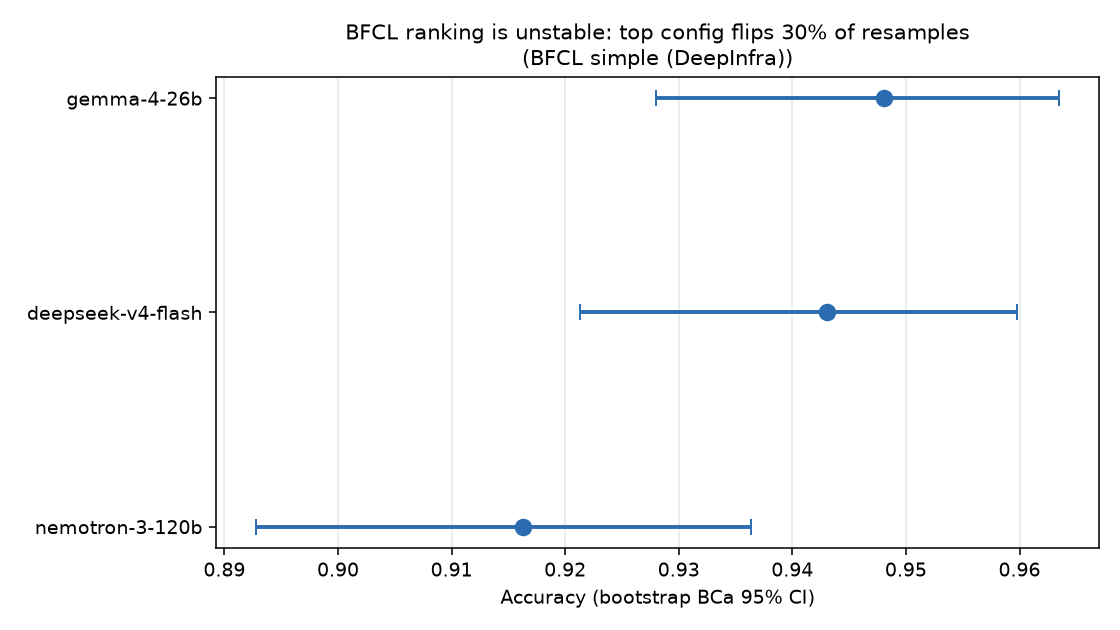
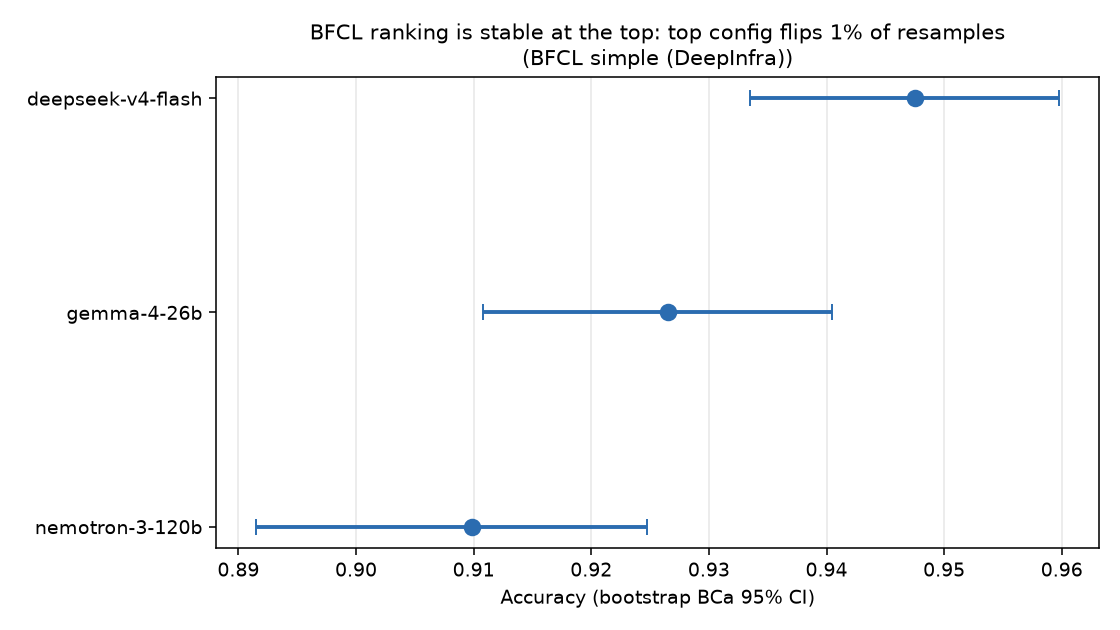
Update to 400-item run: top ranking now resolves, middle still noise
Doubling to 381 items reversed and sharpened the single-turn finding:
- deepseek > gemma is now REAL: flips 1% of resamples, paired diff CI
  [-4.0%,-0.3%] excludes zero, perm p=0.036 (was a 30% coin flip at 199 items)
- gemma > nemotron is still NOT significant: CI [-0.8%,+4.2%] spans zero, p=0.21,
  outranks only 90% of resamples -> the 2nd/3rd ordering isn't supported
- variance: item 84% / seed 0.3% (seed even smaller with more data)

README reframed honestly: a ranking is a set of pairwise claims and they don't
all pass; note that n=199 top was a coin flip, n=381 resolved it (validity scales
with items, not seeds). Figure title now reports stable/unstable from the data
instead of hardcoding 'unstable'. Regenerated figures 01 + 02.

diff --git a/experiments/01_ranking_instability.py b/experiments/01_ranking_instability.py
@@ -90,8 +90,10 @@ def _plot(cis, stab, source):
     ax.set_yticklabels(configs)
     ax.invert_yaxis()
     ax.set_xlabel("Accuracy (bootstrap BCa 95% CI)")
+    # Report honestly whether the ranking is stable or not — don't hardcode a verdict.
+    verdict = "unstable" if stab.top_flip_prob >= 0.05 else "stable at the top"
     ax.set_title(
-        f"BFCL ranking is unstable: top config flips {stab.top_flip_prob:.0%} "
+        f"BFCL ranking is {verdict}: top config flips {stab.top_flip_prob:.0%} "
         f"of resamples\n({source})", fontsize=11)
     ax.grid(axis="x", alpha=0.3)
     fig.tight_layout()

diff --git a/experiments/run_bfcl.py b/experiments/run_bfcl.py
@@ -23,7 +23,7 @@ CONFIGS = [
            model="google/gemma-4-26B-A4B-it"),
 ]
 
-N_ITEMS = 200
+N_ITEMS = 400
 SEEDS = (0, 1, 2)
 MAX_WORKERS = 8
 OUT = Path("results/bfcl_simple.jsonl")

diff --git a/README.md b/README.md
@@ -2,35 +2,45 @@
 
 > A statistical rigor toolkit for LLM/agent evaluation.
 > Bootstrap CIs, variance decomposition, power analysis, and significance testing —
-> one function call each, plus a reproducible demo that a real benchmark ranking
-> **does not survive resampling**.
+> one function call each, plus a reproducible demo of **which leaderboard
+> differences are real and which are noise**.
 
 ---
 
-## The headline: a leaderboard that reorders under resampling
+## The headline: some of the leaderboard is real, some is a coin flip
 
-We ran three tool-calling models on 199 items of the **BFCL "simple"** benchmark
-(3 seeds each, via DeepInfra) and asked one question: *is the ranking real?*
+We ran three tool-calling models on **381 items** of the **BFCL "simple"**
+benchmark (3 seeds each, via DeepInfra) and asked, for every pair: *is this
+ranking real, or noise?*
 
 ![Ranking instability](figures/01_ranking_instability.png)
 
 | Config | Accuracy | 95% CI (bootstrap BCa) |
 |---|---|---|
-| gemma-4-26b | **0.948** | [0.928, 0.964] |
-| deepseek-v4-flash | 0.943 | [0.921, 0.960] |
-| nemotron-3-120b | 0.916 | [0.893, 0.936] |
+| deepseek-v4-flash | **0.948** | [0.934, 0.960] |
+| gemma-4-26b | 0.927 | [0.911, 0.941] |
+| nemotron-3-120b | 0.910 | [0.892, 0.925] |
 
-By point estimate, `gemma-4-26b` is the "best" config. But that claim is **not
-supported by the data**:
+Point estimates give a clean ranking `deepseek > gemma > nemotron`. But only
+**part** of it survives scrutiny:
 
-- The top rank **flips in 30% of bootstrap resamples**. The full ranking people
-  would quote is only the *most frequent* one **68%** of the time.
-- The gemma-vs-deepseek gap of **0.5 points** has a 95% CI of **[−1.2%, +2.2%]**
-  — it spans zero. A paired permutation test gives **p = 0.74**; the probability
-  gemma truly beats deepseek is only **0.70**, barely better than a coin flip.
+- **The top is real.** `deepseek > gemma` holds: the top rank flips in just **1%**
+  of resamples, the paired difference CI is **[−4.0%, −0.3%]** (excludes zero),
+  permutation **p = 0.036**.
+- **The middle is not.** `gemma > nemotron` is **not** significant: the paired
+  difference CI is **[−0.8%, +4.2%]** (spans zero), **p = 0.21**, and gemma only
+  outranks nemotron in **90%** of resamples. Reported as a ranking, that 2nd-vs-3rd
+  ordering is a coin-flip-ish call dressed up as a result.
 
-So "gemma-4-26b > deepseek-v4-flash on BFCL-simple" is a coin flip dressed up as
-a ranking. **A single accuracy number with no error bar is not a result.**
+So even at ~380 items, one of three pairwise orderings on this leaderboard isn't
+supported by the data. **A ranking is a set of pairwise claims, and they don't all
+pass — which ones do is exactly what a significance test tells you, and a bare
+accuracy table hides.**
+
+> *Sample size matters, visibly:* at 199 items (an earlier run) the **top** pair
+> was itself a coin flip — the winner flipped 30% of resamples. Doubling to ~380
+> items resolved the top but left the middle unresolved. Validity scales with n,
+> and most reported evals use the smaller one.
 
 ## Where does the noise come from?
 
@@ -40,9 +50,10 @@ the score variance across factors:
 ![Variance components](figures/02_variance_components.png)
 
 **84% of the variance is *which items you sampled*** (item difficulty); seed
-nondeterminism is ~1%. The practical consequence: adding more *seeds* barely
-tightens your estimate — adding more *items* does. Most eval reports spend their
-compute budget in the wrong place.
+nondeterminism is **0.3%**. The practical consequence: adding more *seeds* barely
+tightens your estimate — adding more *items* does. (This is exactly why doubling
+the item count above resolved the top ranking while re-running seeds would not
+have.) Most eval reports spend their compute budget on the wrong axis.
 
 ## The agent extension: outcome is stable, *process* is not
 